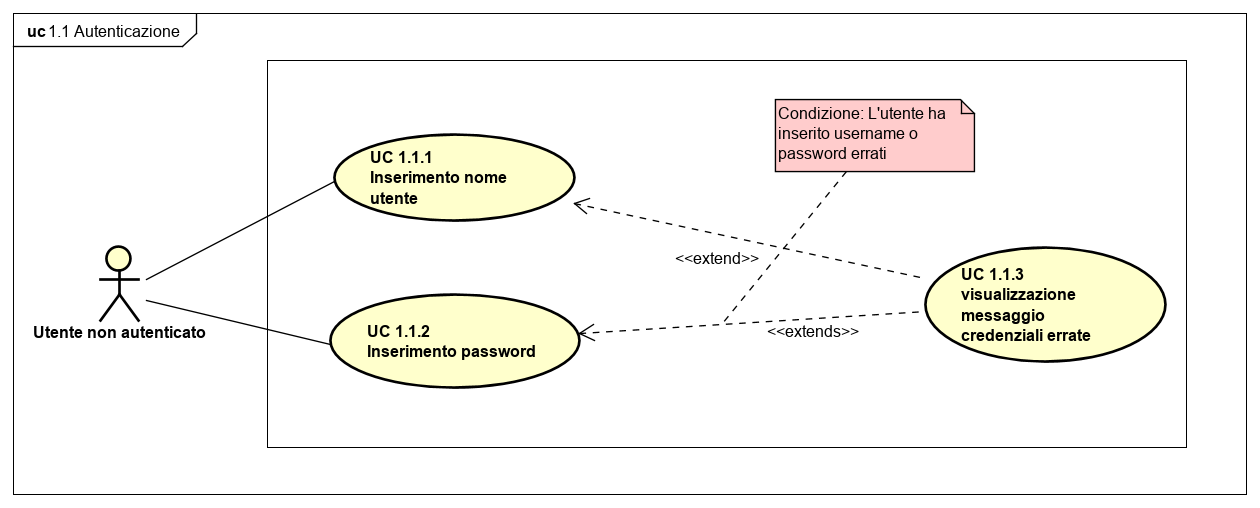
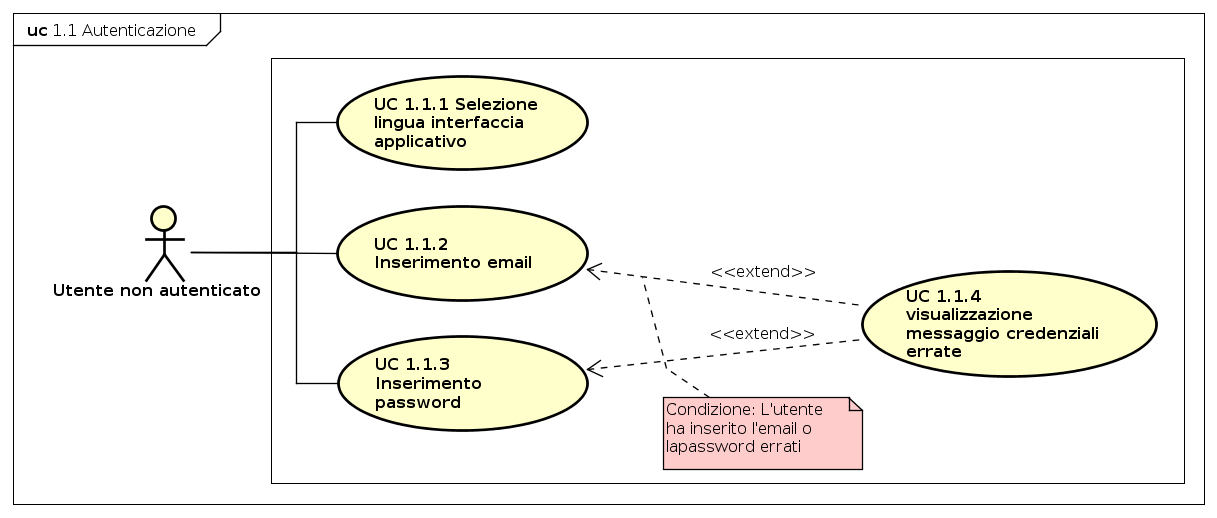
Sistemata autenticazioni

diff --git a/RP/Analisi_dei_requisiti/sez/utenteGenerico.tex b/RP/Analisi_dei_requisiti/sez/utenteGenerico.tex
@@ -11,7 +11,7 @@
 
 \begin{figure}[H]
 \centering
-\includegraphics[width=17cm]{img/UC11.png} 
+\includegraphics[width=17cm, keepaspectratio]{img/UC11.png} 
 \caption{Caso d'uso UC 1.1}
 \end{figure}
 
@@ -22,36 +22,46 @@
 \item[•]\textbf{Postcondizione}: l’utente viene autenticato all’interno del sistema;
 \item[•]\textbf{Flusso degli eventi}:
 \begin{enumerate}
-\item UC 1.1.1 - Inserimento nome utente;
-\item UC 1.1.2 - Inserimento password;
+\item UC 1.1.1 - Selezione lingua interfaccia applicativo;
+\item UC 1.1.2 - Inserimento nome utente;
+\item UC 1.1.3 - Inserimento password;
 
 \end{enumerate}
 \item[•]\textbf{Estensioni}:
 \begin{enumerate}
-\item UC 1.1.3 - visualizzazione messaggio credenziali errate;
+\item UC 1.1.4 - Visualizzazione messaggio credenziali errate;
 \end{enumerate}
 \end{itemize}
 
-\subsubsection{UC 1.1.1 - Inserimento nome utente}
+\subsubsection{UC 1.1.1 - Selezione lingua interfaccia applicativo}
 \begin{itemize}
 \item[•]\textbf{Attori}: Utente non autenticato;
-\item[•]\textbf{Descrizione}: l’utente inserisce un nome utente durante l'autenticazione;
+\item[•]\textbf{Descrizione}: l’utente seleziona la lingua desiderata per l'interfaccia dell'applicativo;
+\item[•]\textbf{Precondizione}: l’utente non è autenticato e il valore della lingua dell'applicativo è basato sulla geolocalizzazione dell'utente o sull'ultima scelta effettuata;
+\item[•]\textbf{Postcondizione}: l’utente ha selezionato la lingua desiderata e il sistema mostra l'interfaccia di autenticazione nella lingua scelta;
+\item[•]\textbf{Flusso degli eventi}: l'utente visualizza il form per l'autenticazione e seleziona da un elenco predefinito la lingua da utilizzare all'interno del sistema.
+\end{itemize}
+
+\subsubsection{UC 1.1.2 - Inserimento email}
+\begin{itemize}
+\item[•]\textbf{Attori}: Utente non autenticato;
+\item[•]\textbf{Descrizione}: l’utente inserisce la propria email utilizzata in fase di registrazione;
 \item[•]\textbf{Precondizione}: l’utente non è autenticato;
-\item[•]\textbf{Postcondizione}: l’utente ha inserito il proprio nome utente;
-\item[•]\textbf{Flusso degli eventi}: l'utente visualizza il form per l'autenticazione e inserisce il nome utente in un apposito campo.
+\item[•]\textbf{Postcondizione}: l’utente ha inserito la propria email;
+\item[•]\textbf{Flusso degli eventi}: l'utente visualizza il form per l'autenticazione e inserisce l'email utilizzata in fase di registrazione in un apposito campo.
 
 \end{itemize}
 
-\subsubsection{UC 1.1.2 - Inserimento password}
+\subsubsection{UC 1.1.3 - Inserimento password}
 \begin{itemize}
 \item[•]\textbf{Attori}: Utente non autenticato;
-\item[•]\textbf{Descrizione}: l’utente inserisce una password;
+\item[•]\textbf{Descrizione}: l’utente inserisce una password inserita in fase di registrazione;
 \item[•]\textbf{Precondizione}: l'utente non è autenticato;
-\item[•]\textbf{Postcondizione}: l'utente ha inserito la propria password;
+\item[•]\textbf{Postcondizione}: l'utente ha inserito la password utilizzata in fase di registrazione;
 \item[•]\textbf{Flusso degli eventi}: l'utente visualizza il form per l'autenticazione e inserisce la password in apposito campo.
 \end{itemize}
 
-\subsubsection{UC 1.1.3 - Visualizzazione messaggio credenziali errate}
+\subsubsection{UC 1.1.4 - Visualizzazione messaggio credenziali errate}
 \begin{itemize}
 \item[•]\textbf{Attori}: Utente non autenticato;
 \item[•]\textbf{Descrizione}: l'utente ha avviato il login immettendo delle credenziali errati;
